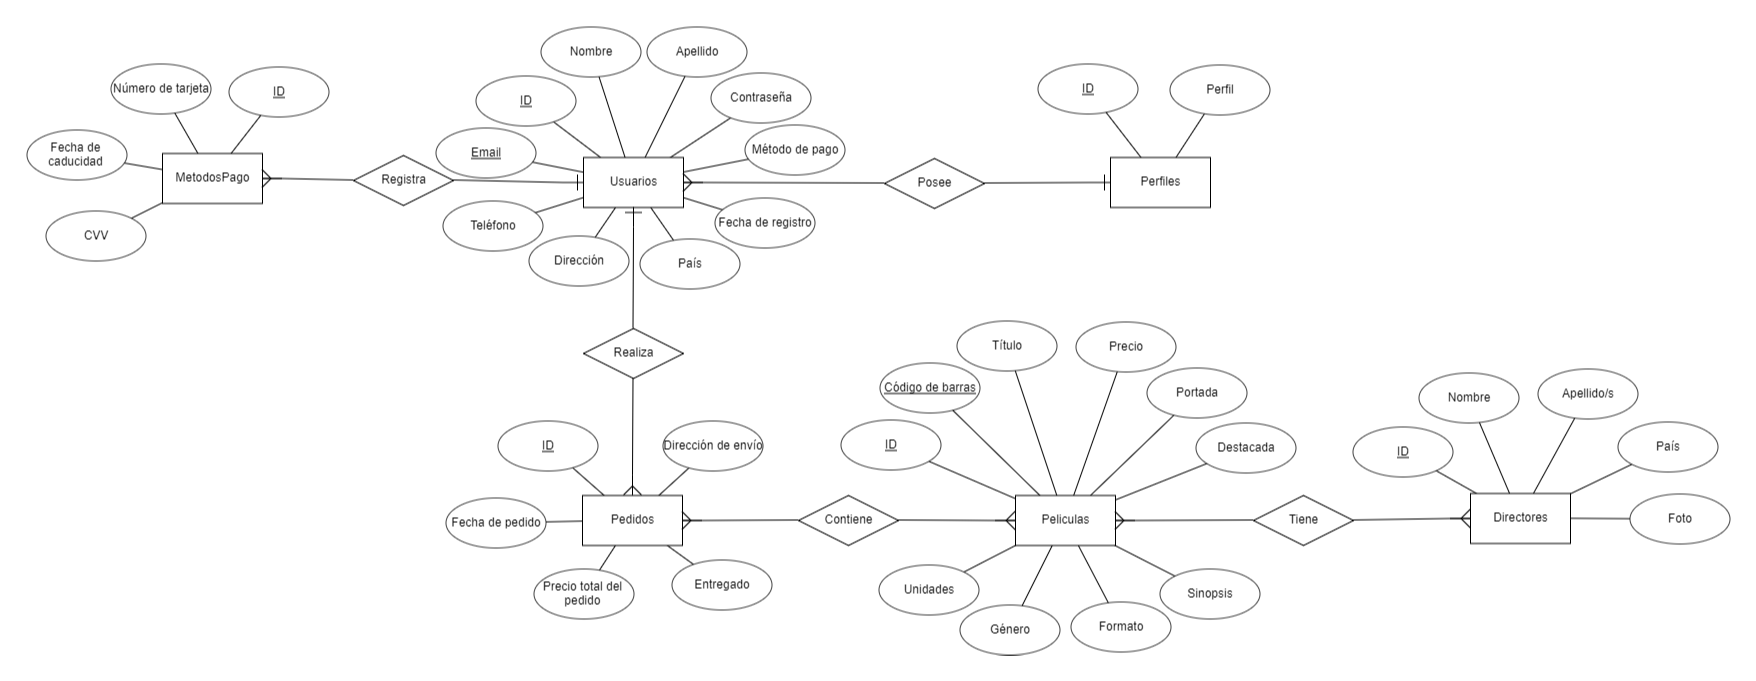
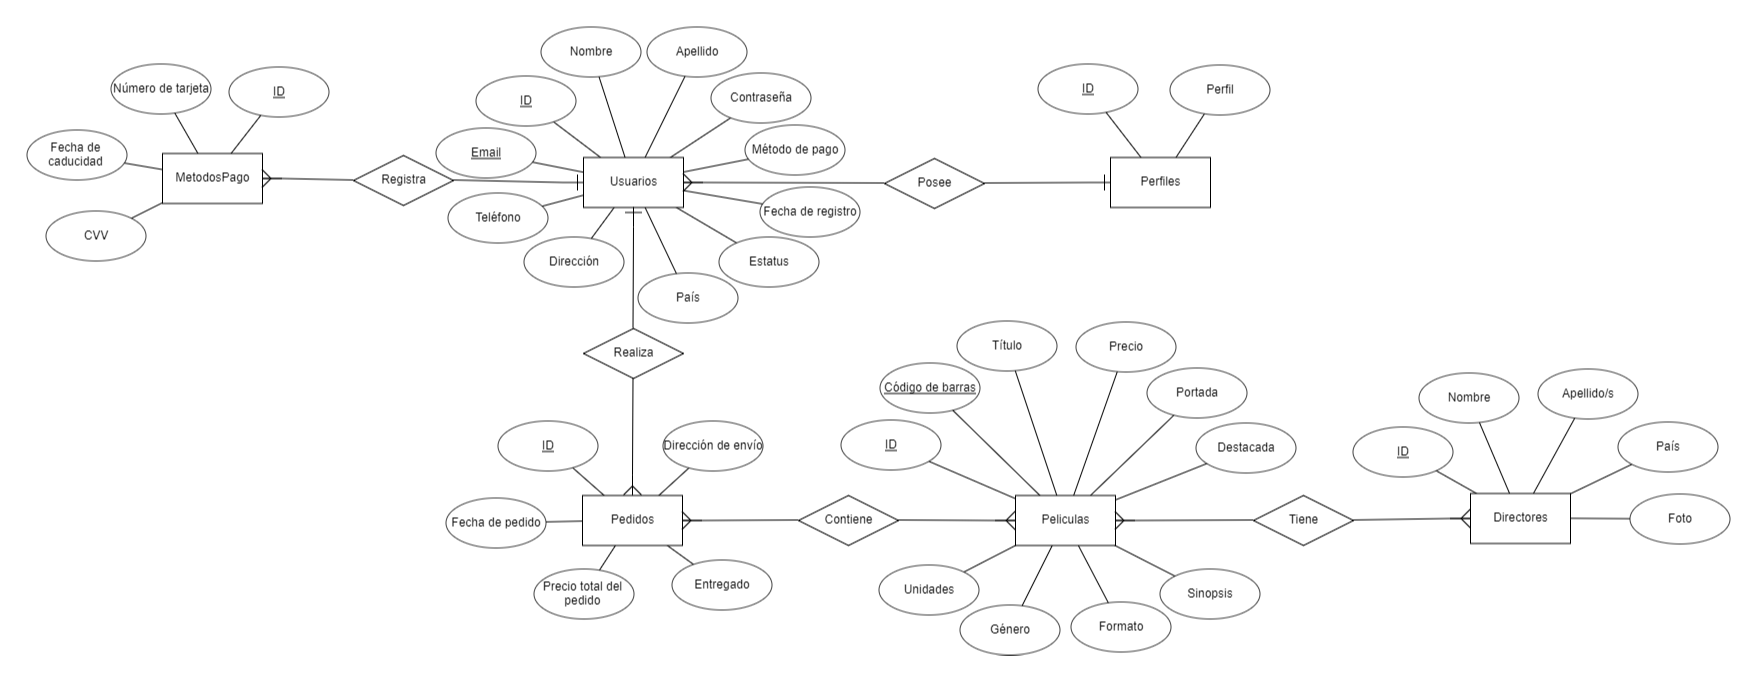
Seguridad añadida a la parte de administradores

Changed region(s): [[0.246, 0.2775, 0.492, 0.4934]]

diff --git a/BackendFinDeCicloDGM/src/main/resources/templates/formLogin.html b/BackendFinDeCicloDGM/src/main/resources/templates/formLogin.html
@@ -1,0 +1,49 @@
+<!doctype html>
+<html lang="en">
+  <head>
+    <meta charset="UTF-8">
+    <meta http-equiv="X-UA-Compatible" content="IE=edge">
+    <meta name="viewport" content="width=device-width, initial-scale=1.0">
+    <title>DCine - Login</title>
+
+    <link th:href="@{/static/css/styles.css}" rel="stylesheet">
+    <!-- Bootstrap CSS -->
+    <link th:href="@{/static//bootstrap/css/bootstrap.min.css}" rel="stylesheet">
+  
+  </head>
+
+  <body>
+
+    <main role="main">     
+      <div class="container"> 
+        <form th:action="@{/login}" method="post" class="form-signin mt-5">
+          <div class="row">
+            <div class="col-md-4"> 
+            </div>  
+            <div class="col-md-4">
+              <img class="mb-4 rounded mx-auto d-block" src="/static/images/Logo.png" alt="" width="300" height="300">
+              <h4 class="h1 mb-3 font-weight-normal text-center">DCine - Iniciar sesión</h4>
+              <label for="username" class="sr-only">Correo electónico</label>
+              <input type="text" name="username" id="username" class="form-control" placeholder="Correo electrónico" required autofocus><br>
+              <label for="password" class="sr-only">Contraseña</label>
+              <input type="password" name="password" id="password" class="form-control" placeholder="Contraseña" required><br>
+              <div class="row justify-content-center mb-4">
+                <button class="btn btn-lg btn btn-outline-dark" type="submit">Entrar</button>
+              </div>
+            </div>
+            <div class="col-md-4"> 
+            </div>
+          </div>   
+        </form>
+      </div>
+
+    </main>
+
+  <!-- Bootstrap core JavaScript
+  ================================================== -->
+  <!-- Placed at the end of the document so the pages load faster -->
+  <script src="https://code.jquery.com/jquery-3.3.1.slim.min.js"></script>
+  <script th:src="@{/static/bootstrap/js/bootstrap.min.js}"></script> 
+  
+  </body>
+</html>

diff --git a/BackendFinDeCicloDGM/src/main/resources/templates/fragments/header.html b/BackendFinDeCicloDGM/src/main/resources/templates/fragments/header.html
@@ -61,6 +61,10 @@
           </div>
 
         </li>
+
+        <li class="nav-item" sec:authorize="isAuthenticated()">
+          <a class="nav-link" th:href="@{/logout}">Salir</a>
+        </li>
       </ul>
     </div>
   </div>

diff --git a/BackendFinDeCicloDGM/src/main/java/com/diego/findeciclo/security/DatabaseWebSecurity.java b/BackendFinDeCicloDGM/src/main/java/com/diego/findeciclo/security/DatabaseWebSecurity.java
@@ -1,0 +1,49 @@
+package com.diego.findeciclo.security;
+
+import javax.sql.DataSource;
+import org.springframework.beans.factory.annotation.Autowired;
+import org.springframework.context.annotation.Bean;
+import org.springframework.context.annotation.Configuration;
+import org.springframework.security.config.annotation.authentication.builders.AuthenticationManagerBuilder;
+import org.springframework.security.config.annotation.web.builders.HttpSecurity;
+import org.springframework.security.config.annotation.web.configuration.EnableWebSecurity;
+import org.springframework.security.config.annotation.web.configuration.WebSecurityConfigurerAdapter;
+import org.springframework.security.crypto.bcrypt.BCryptPasswordEncoder;
+import org.springframework.security.crypto.password.PasswordEncoder;
+
+@Configuration
+@EnableWebSecurity
+public class DatabaseWebSecurity extends WebSecurityConfigurerAdapter {
+
+    @Autowired
+	private DataSource dataSource;
+
+	@Override
+	protected void configure(AuthenticationManagerBuilder auth) throws Exception {
+		auth.jdbcAuthentication().dataSource(dataSource)
+		.usersByUsernameQuery("select email, contrasena, estatus from Usuarios where email = ?")
+		.authoritiesByUsernameQuery("select u.email, p.perfil from Usuarios u "
+		+ "inner join Perfiles p on p.id = u.idPerfil " + "where u.email = ?");
+	}
+
+	@Override
+	protected void configure(HttpSecurity http) throws Exception {
+		http.authorizeRequests().antMatchers("/static/bootstrap/**", 
+											"/static/images/**",
+											"/static/css/**",
+											"/static/tinymce/**").permitAll().antMatchers("/directores/**",
+																				"/metodosPago/**",
+																				"/pedidos/**",
+																				"/peliculas/**",
+																				"/usuarios/**",
+																				"/bcrypt/**").permitAll().antMatchers("/admin/**").hasAnyAuthority("ADMINISTRADOR")
+																								.anyRequest().authenticated().and().formLogin().loginPage("/login").permitAll();
+	}
+
+
+	@Bean
+	public PasswordEncoder passwordEncoder() {
+		return new BCryptPasswordEncoder();
+	}
+
+}

diff --git a/BackendFinDeCicloDGM/src/main/java/com/diego/findeciclo/model/Usuario.java b/BackendFinDeCicloDGM/src/main/java/com/diego/findeciclo/model/Usuario.java
@@ -28,6 +28,7 @@ public class Usuario {
 	private String direccion;
 	private String pais;
 	private Date fechaRegistro;
+	private Integer estatus;
 	
 	@ManyToOne
     @JoinColumn(name="idPerfil")
@@ -43,9 +44,10 @@ public class Usuario {
 		super();
 	}
 
-	public Usuario(String nombre, String apellido, String email, String contrasena, String telefono, String direccion, String pais,
-			Date fechaRegistro, Perfil perfil, List<MetodoPago> metodoDePago, List<Pedido> pedidos) {
-		super();
+	public Usuario(Integer id, String nombre, String apellido, String email, String contrasena, String telefono,
+			String direccion, String pais, Date fechaRegistro, Integer estatus, Perfil perfil,
+			List<MetodoPago> metodoDePago, List<Pedido> pedidos) {
+		this.id = id;
 		this.nombre = nombre;
 		this.apellido = apellido;
 		this.email = email;
@@ -54,6 +56,7 @@ public class Usuario {
 		this.direccion = direccion;
 		this.pais = pais;
 		this.fechaRegistro = fechaRegistro;
+		this.estatus = estatus;
 		this.perfil = perfil;
 		this.metodoDePago = metodoDePago;
 		this.pedidos = pedidos;
@@ -153,6 +156,14 @@ public class Usuario {
 
 	public void setPedidos(List<Pedido> pedidos) {
 		this.pedidos = pedidos;
+	}
+
+	public Integer getEstatus() {
+		return estatus;
+	}
+
+	public void setEstatus(Integer estatus) {
+		this.estatus = estatus;
 	}
 
 }

diff --git a/BackendFinDeCicloDGM/src/main/java/com/diego/findeciclo/controller/HomeController.java b/BackendFinDeCicloDGM/src/main/java/com/diego/findeciclo/controller/HomeController.java
@@ -1,0 +1,42 @@
+package com.diego.findeciclo.controller;
+
+import javax.servlet.http.HttpServletRequest;
+
+import org.springframework.beans.factory.annotation.Autowired;
+import org.springframework.security.crypto.password.PasswordEncoder;
+import org.springframework.security.web.authentication.logout.SecurityContextLogoutHandler;
+import org.springframework.stereotype.Controller;
+import org.springframework.web.bind.annotation.GetMapping;
+import org.springframework.web.bind.annotation.PathVariable;
+import org.springframework.web.bind.annotation.ResponseBody;
+
+@Controller
+public class HomeController {
+
+	@Autowired
+	private PasswordEncoder passwordEncoder;
+    
+    @GetMapping("/login")
+	public String mostrarLogin() {
+		return "formLogin";
+	}
+	
+	@GetMapping("/logout")
+	public String logout(HttpServletRequest request) {
+		SecurityContextLogoutHandler logoutHandler = new SecurityContextLogoutHandler();
+		logoutHandler.logout(request, null, null);
+		return "redirect:/login";
+	}
+	
+	@GetMapping("/")
+	public String peliculasUsuario() {
+		return "redirect:/admin/peliculas/index";
+	}
+
+	@GetMapping("/bcrypt/{texto}")
+	@ResponseBody
+	public String encriptar(@PathVariable("texto") String texto) {
+		return texto + " Encriptado en BCrypt: " + passwordEncoder.encode(texto);
+	}
+
+}
